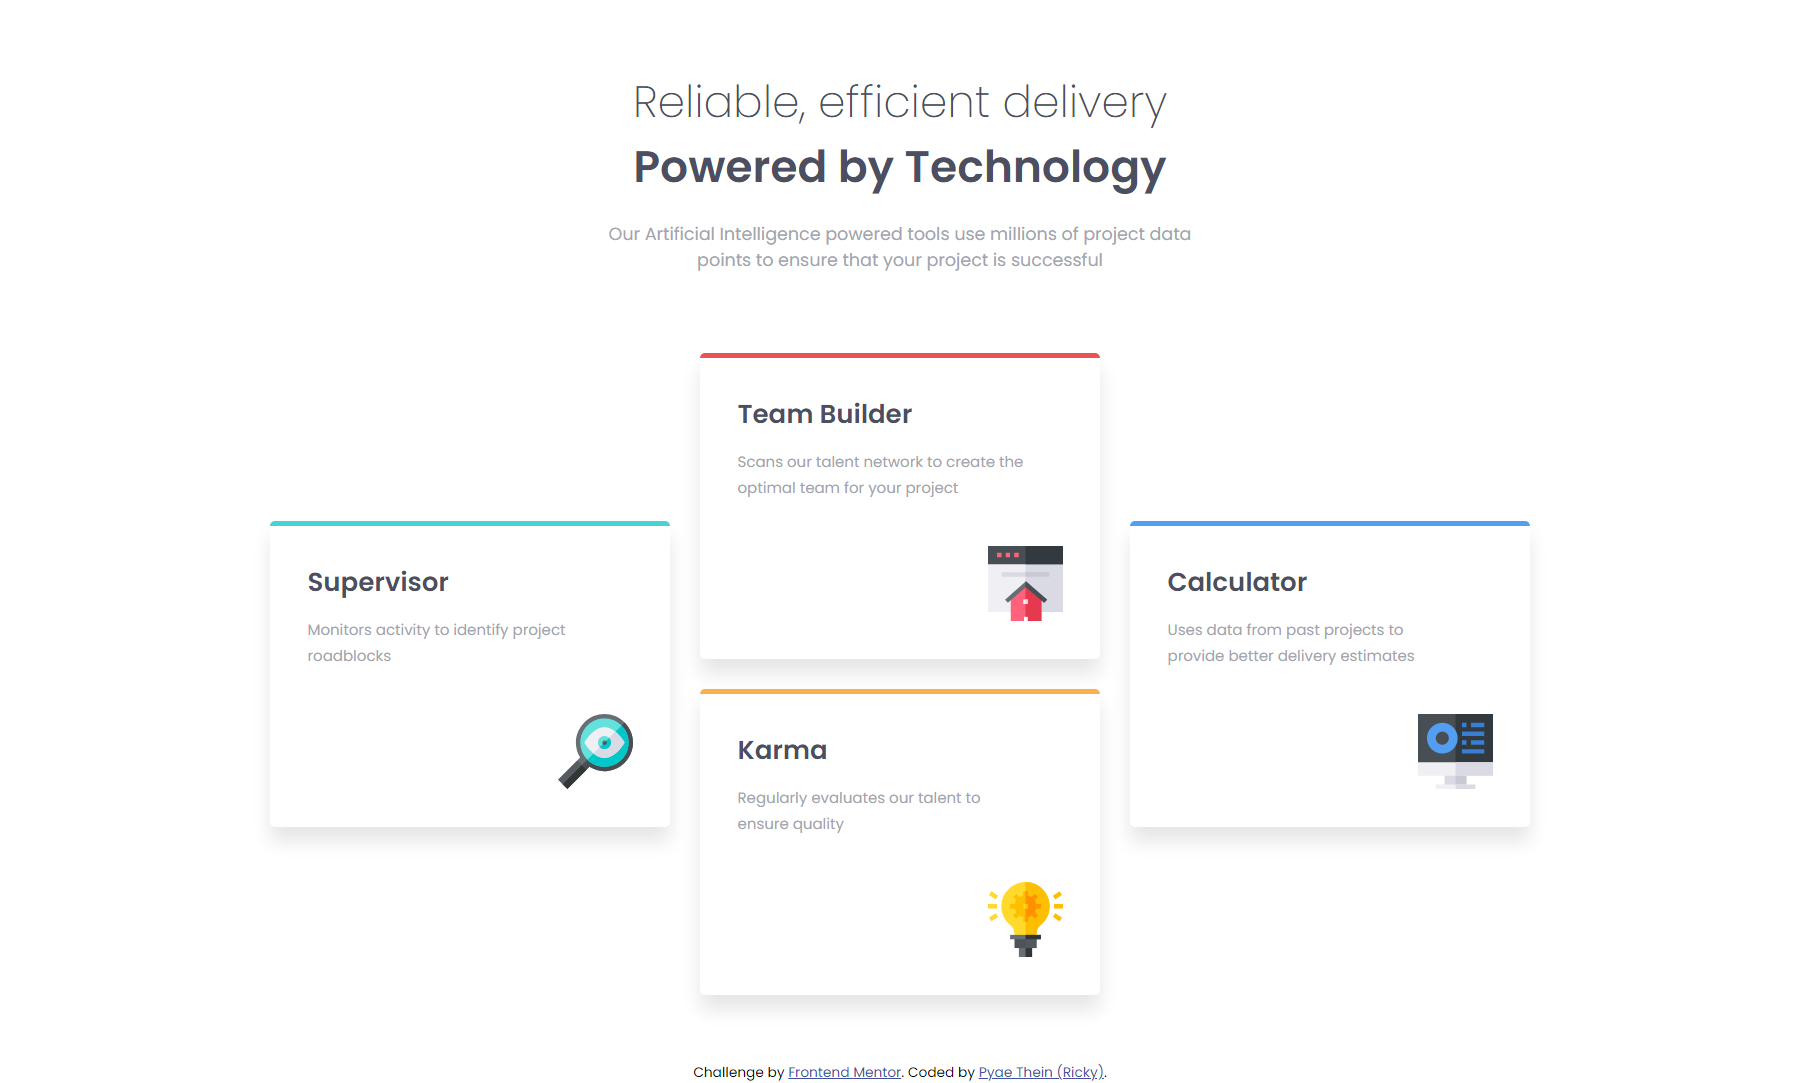
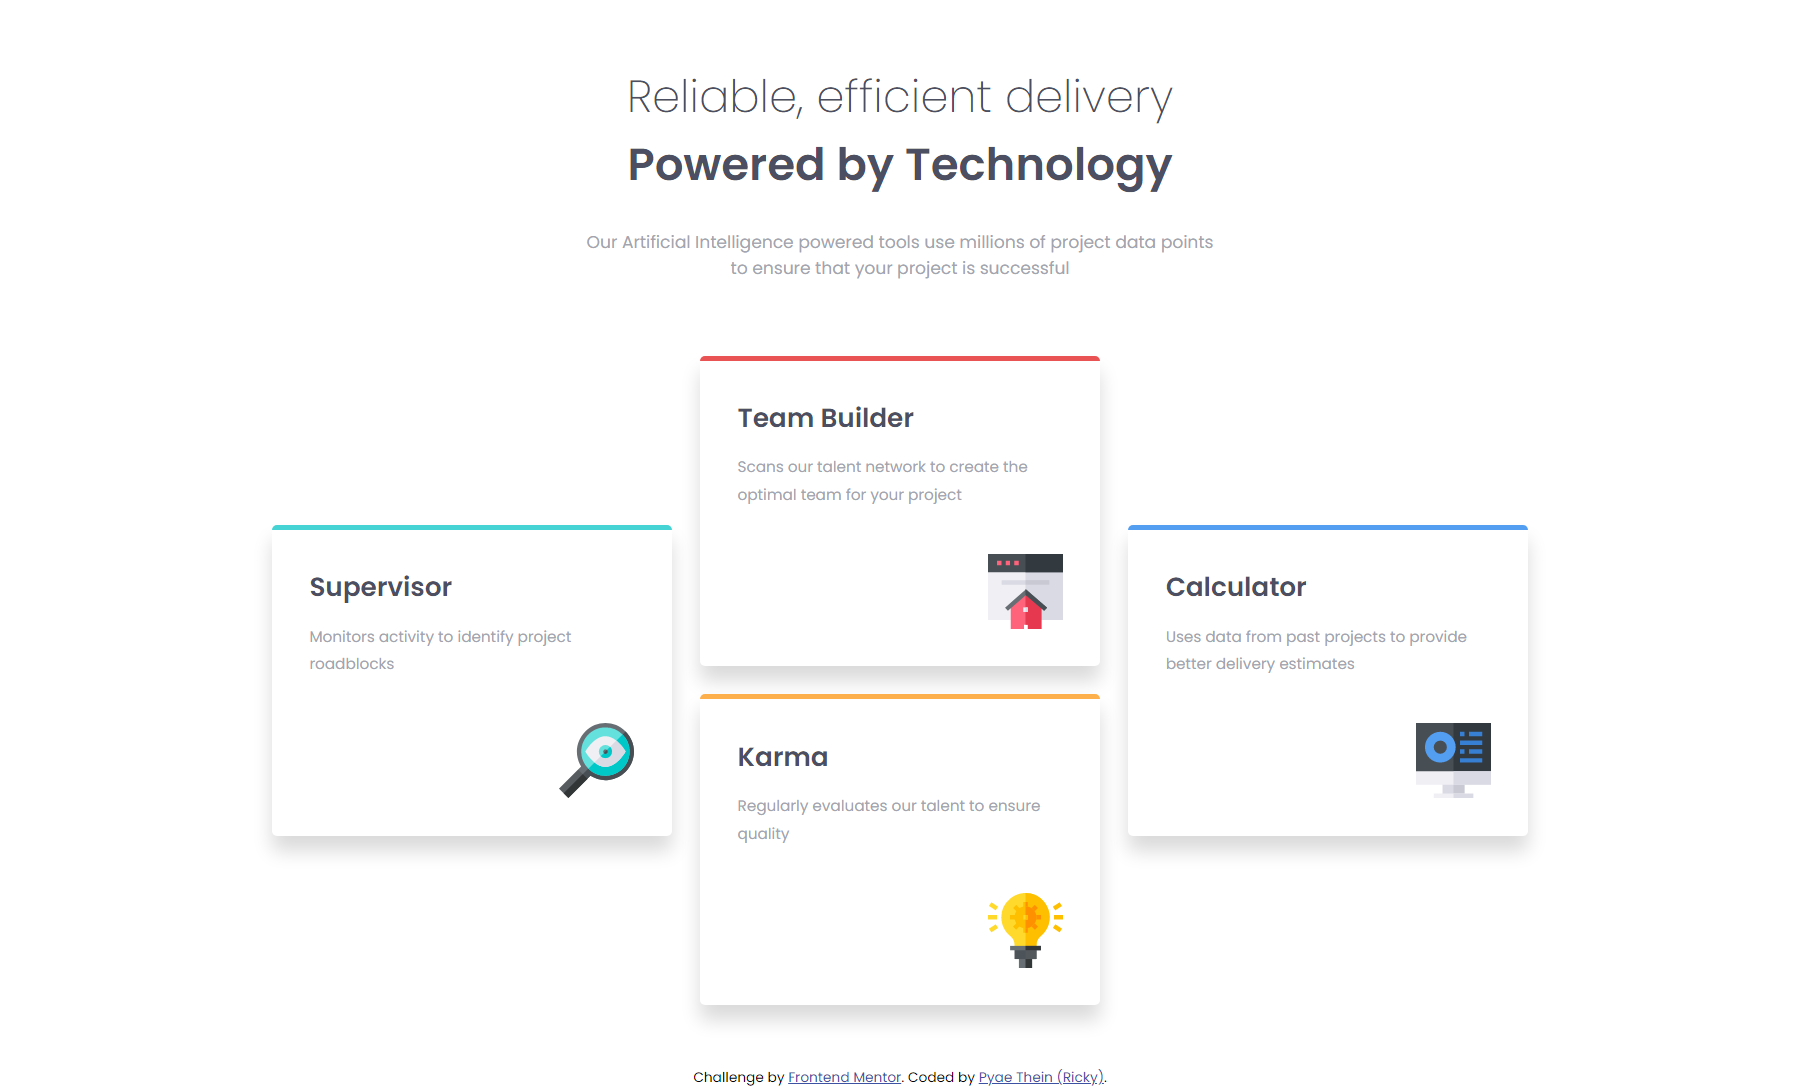
Add files via upload

diff --git a/index.html b/index.html
@@ -6,7 +6,7 @@
 
   <link rel="icon" type="image/png" sizes="32x32" href="./images/favicon-32x32.png">
   
-  <title>Frontend Mentor | Four card feature section</title>
+  <title>Pyae Thein (Ricky) | Four card feature section</title>
   <link rel="stylesheet" href="css/style.css">
 
   <!-- Feel free to remove these styles or customise in your own stylesheet 👍 -->
@@ -16,44 +16,49 @@
   </style>
 </head>
 <body>
-  <div class="container">
-    <div class="wrapper">
-      <div class="first-section">
-        <div class="title">
-          <h1 class="title-1">Reliable, efficient delivery</h1>
-          <h1 class="title-2">Powered by Technology</h1>
-        </div>
-        <p class="desc title__desc">
-          Our Artificial Intelligence powered tools use millions of project data points 
-          to ensure that your project is successful
-        </p>
-      </div>
-      <div class="feature grid">
-        <div class="card card-1">
-          <h1 class="feature__title">Supervisor</h1>
-          <p class="feature__desc desc">Monitors activity to identify project roadblocks</p>
-          <img src="images/icon-supervisor.svg" alt="" class="feature__img">
-        </div>
-        <div class="two-cards grid">
-          <div class="card card-2">
-            <h1 class="feature__title">Team Builder</h1>
-            <p class="feature__desc desc">Scans our talent network to create the optimal team for your project</p>
-            <img src="images/icon-team-builder.svg" alt="" class="feature__img">
+  <!-- adding landmarks for accessbility -->
+  <main>
+    <section>
+      <div class="container">
+        <div class="wrapper">
+          <div class="first-section">
+            <div class="title">
+              <h1 class="title-1">Reliable, efficient delivery</h1>
+              <h1 class="title-2">Powered by Technology</h1>
+            </div>
+            <p class="desc title__desc">
+              Our Artificial Intelligence powered tools use millions of project data points 
+              to ensure that your project is successful
+            </p>
           </div>
-          <div class="card card-3">
-            <h1 class="feature__title">Karma</h1>
-            <p class="feature__desc desc">Regularly evaluates our talent to ensure quality</p>
-            <img src="images/icon-karma.svg" alt="" class="feature__img">
+          <div class="feature grid">
+            <div class="card card-1">
+              <h2 class="feature__title">Supervisor</h2>
+              <p class="feature__desc desc">Monitors activity to identify project roadblocks</p>
+              <img src="images/icon-supervisor.svg" alt="" class="feature__img">
+            </div>
+            <div class="two-cards grid">
+              <div class="card card-2">
+                <h2 class="feature__title">Team Builder</h2>
+                <p class="feature__desc desc">Scans our talent network to create the optimal team for your project</p>
+                <img src="images/icon-team-builder.svg" alt="" class="feature__img">
+              </div>
+              <div class="card card-3">
+                <h2 class="feature__title">Karma</h2>
+                <p class="feature__desc desc">Regularly evaluates our talent to ensure quality</p>
+                <img src="images/icon-karma.svg" alt="" class="feature__img">
+              </div>
+            </div>
+            <div class="card card-4">
+              <h2 class="feature__title">Calculator</h2>
+              <p class="feature__desc desc">Uses data from past projects to provide better delivery estimates</p>
+              <img src="images/icon-calculator.svg" alt="" class="feature__img">
+            </div>
           </div>
         </div>
-        <div class="card card-4">
-          <h1 class="feature__title">Calculator</h1>
-          <p class="feature__desc desc">Uses data from past projects to provide better delivery estimates</p>
-          <img src="images/icon-calculator.svg" alt="" class="feature__img">
-        </div>
       </div>
-    </div>
-  </div>
+    </section>
+  </main>
 
   <footer>
     <p class="attribution">

diff --git a/scss/style.scss b/scss/style.scss
@@ -1,0 +1,148 @@
+@import"_config.scss";
+
+*{
+    margin: 0;
+    padding: 0;
+    box-sizing: border-box;
+}
+body{
+    font-size: 15px;
+    font-family: 'Poppins', sans-serif;
+    background-color: var(very-light-gray);
+}
+.container{
+    display: flex;
+    align-items: center;
+    min-height: 100vh;
+    justify-content: center;
+    padding: 50px;
+}
+.desc{
+    color: var(--grayish-blue);
+}
+img{
+    max-width: 100%;
+}
+.first-section{
+    text-align: center;
+    margin-bottom: 4em;
+    
+    .title{
+        margin-bottom: 1em;
+        color: var(--very-dark-blue);
+        font-size: 1.6em;
+
+        .title-1{
+            font-weight: 200;
+        }
+    }
+    .title__desc{
+        width: 50%;
+        margin: 0 auto;
+        font-size: 0.9125em;
+    }
+}
+.grid{
+    display: grid;
+}
+.feature{
+    grid-template-columns: repeat(3, 1fr);
+    column-gap: 1.5em;
+    align-items: center;
+    place-items: center;
+
+    &__title{
+        font-size: 1.4em;
+        color: var(--very-dark-blue);
+        font-weight: 700;
+    }
+    &__desc{
+        font-size: 0.8125em;
+        line-height: 1.8;
+        margin: 1em 0 3em;
+    }
+    &__img{
+        display: flex;
+        margin-left: auto;
+        width: 60px;
+    }
+}
+.card{
+    background-color: #fff;
+    box-shadow: 0 12px 15px rgba(0,0,0,0.15);
+    border-radius: 4px;
+    padding: 30px;
+    max-width: 320px;
+}
+
+.two-cards{
+    row-gap: 1.5em;
+}
+.card-1{
+    border-top: 4px solid var(--cyan);
+}
+.card-2{
+    border-top: 4px solid var(--red);
+}
+.card-3{
+    border-top: 4px solid var(--orange);
+}
+.card-4{
+    border-top: 4px solid var(--blue);
+}
+
+@media screen and (max-width: 968px){
+    .first-section{
+        margin-bottom: 3.5em;
+        .title{
+            &__desc{
+                width: 60%;
+            }
+        }
+    }
+    .feature{
+        grid-template-columns: 1fr;
+        row-gap: 1.5em;
+    }
+}
+
+@media screen and (max-width: 568px){
+    body{
+        font-size: 14px;
+    }
+    .container{
+        padding: 50px 20px;
+    }
+    .first-section{
+        margin-bottom: 3em;
+        
+        .title{
+            font-size: 1.2em;
+
+            &__desc{
+                width: 100%;
+                font-size: 1em;
+            }
+        }
+    }
+    .feature{
+        &__title{
+            font-size: 1.4em;
+        }
+        &__desc{
+            font-size: 0.875em;
+            margin: 0.5em 0 2em;
+        }
+    }
+}
+@media screen and (max-width: 300px){
+    body{
+        font-size: 10px;
+    }
+    .first-section{
+
+        .title{
+            font-size: 1.3em;
+        }
+    }
+}

diff --git a/css/style.css b/css/style.css
@@ -17,6 +17,7 @@
 }
 
 body {
+  font-size: 15px;
   font-family: 'Poppins', sans-serif;
   background-color: var(very-light-gray);
 }
@@ -51,7 +52,7 @@ img {
 .first-section .title {
   margin-bottom: 1em;
   color: var(--very-dark-blue);
-  font-size: 1.1rem;
+  font-size: 1.6em;
 }
 
 .first-section .title .title-1 {
@@ -61,7 +62,7 @@ img {
 .first-section .title__desc {
   width: 50%;
   margin: 0 auto;
-  font-size: 0.875rem;
+  font-size: 0.9125em;
 }
 
 .grid {
@@ -81,15 +82,14 @@ img {
 }
 
 .feature__title {
-  font-size: 1.3rem;
+  font-size: 1.4em;
   color: var(--very-dark-blue);
   font-weight: 700;
 }
 
 .feature__desc {
-  font-size: 0.75rem;
-  width: 90%;
-  line-height: 1.3rem;
+  font-size: 0.8125em;
+  line-height: 1.8;
   margin: 1em 0 3em;
 }
 
@@ -103,8 +103,8 @@ img {
 
 .card {
   background-color: #fff;
-  -webkit-box-shadow: 0 12px 15px rgba(0, 0, 0, 0.1);
-          box-shadow: 0 12px 15px rgba(0, 0, 0, 0.1);
+  -webkit-box-shadow: 0 12px 15px rgba(0, 0, 0, 0.15);
+          box-shadow: 0 12px 15px rgba(0, 0, 0, 0.15);
   border-radius: 4px;
   padding: 30px;
   max-width: 320px;
@@ -135,7 +135,6 @@ img {
     margin-bottom: 3.5em;
   }
   .first-section .title__desc {
-    font-size: 0.8rem;
     width: 60%;
   }
   .feature {
@@ -145,7 +144,10 @@ img {
   }
 }
 
-@media screen and (max-width: 535px) {
+@media screen and (max-width: 568px) {
+  body {
+    font-size: 14px;
+  }
   .container {
     padding: 50px 20px;
   }
@@ -153,18 +155,27 @@ img {
     margin-bottom: 3em;
   }
   .first-section .title {
-    font-size: 0.75rem;
+    font-size: 1.2em;
   }
   .first-section .title__desc {
-    font-size: 0.8rem;
     width: 100%;
+    font-size: 1em;
   }
   .feature__title {
-    font-size: 1.1rem;
+    font-size: 1.4em;
   }
   .feature__desc {
-    font-size: 0.7rem;
+    font-size: 0.875em;
     margin: 0.5em 0 2em;
+  }
+}
+
+@media screen and (max-width: 300px) {
+  body {
+    font-size: 10px;
+  }
+  .first-section .title {
+    font-size: 1.3em;
   }
 }
 /*# sourceMappingURL=style.css.map */

diff --git a/scss/_config.scss b/scss/_config.scss
@@ -1,0 +1,12 @@
+@import url('https://fonts.googleapis.com/css2?family=Poppins:wght@200;400;600&display=swap');
+
+:root{
+    --red: hsl(0, 78%, 62%);
+    --cyan: hsl(180, 62%, 55%);
+    --orange: hsl(34, 97%, 64%);
+    --blue: hsl(212, 86%, 64%);
+
+    --very-dark-blue: hsl(234, 12%, 34%);
+    --grayish-blue: hsl(229, 6%, 66%);
+    --very-light-gray: hsl(0, 0%, 98%);
+}
